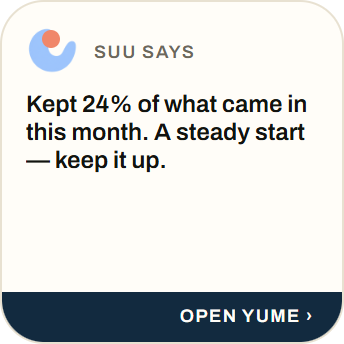
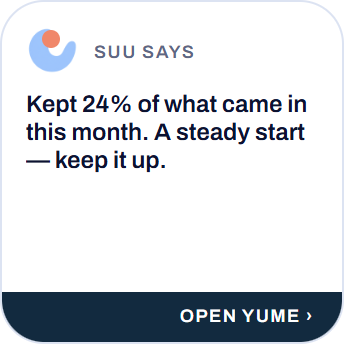
Restyle the widgets in the app's palette with a larger This Month figure, skip widget refresh in Expo Go, and show Add amount chips only without Your usual

diff --git a/src/widgets/ThisMonthWidget.tsx b/src/widgets/ThisMonthWidget.tsx
@@ -1,7 +1,7 @@
 import { FlexWidget, TextWidget, type ColorProp } from 'react-native-android-widget';
 import { formatMoney } from '@/lib/money';
 import { WidgetShell, WidgetLabel } from './WidgetShell';
-import { widgetColor, widgetTint, WIDGET_FONT } from './widgetTheme';
+import { widgetColor, widgetTint, widgetAlpha, WIDGET_FONT } from './widgetTheme';
 import type { ThisMonthWidgetData } from './data';
 
 /** Home's free-balance headline and proportional month line, sized for a 4×2 widget. */
@@ -38,7 +38,8 @@ export function ThisMonthWidget({
     <WidgetShell
       clickAction="OPEN_APP"
       justifyContent="space-between"
-      backgroundColor={widgetTint(primary, 98)}
+      // A solid sky wash: a native gradient would replace the drawable that holds the border.
+      backgroundColor={widgetTint(primary, 90)}
     >
       <FlexWidget
         style={{
@@ -60,7 +61,7 @@ export function ThisMonthWidget({
         style={{
           width: 'match_parent',
           fontFamily: WIDGET_FONT.body,
-          fontSize: 30,
+          fontSize: 36,
           adjustsFontSizeToFit: true,
           color: over || freeMinor < 0 ? widgetColor.expenseText : widgetColor.ink,
         }}
@@ -69,10 +70,10 @@ export function ThisMonthWidget({
         style={{
           flexDirection: 'row',
           width: 'match_parent',
-          height: 7,
+          height: 8,
           borderRadius: 4,
           overflow: 'hidden',
-          backgroundColor: widgetColor.surfaceAlt,
+          backgroundColor: widgetAlpha(widgetColor.white, 0.55),
         }}
       >
         {parts.map((p) => (
@@ -81,7 +82,7 @@ export function ThisMonthWidget({
             style={{
               width: 0,
               flex: Math.max(1, Math.round(p.share * 10000)),
-              height: 7,
+              height: 8,
               backgroundColor: p.color,
             }}
           />
@@ -108,7 +109,7 @@ export function ThisMonthWidget({
         }
         maxLines={1}
         truncate="END"
-        style={{ fontFamily: WIDGET_FONT.body, fontSize: 10, color: widgetColor.textMuted, marginTop: 6 }}
+        style={{ fontFamily: WIDGET_FONT.body, fontSize: 11, color: widgetColor.inkSoft, marginTop: 6 }}
       />
     </WidgetShell>
   );
@@ -132,7 +133,7 @@ function Figure({ label, value, color }: { label: string; value: string; color: 
         style={{
           width: 'match_parent',
           fontFamily: WIDGET_FONT.amount,
-          fontSize: 12,
+          fontSize: 13,
           adjustsFontSizeToFit: true,
           color: widgetColor.ink,
           marginTop: 2,

diff --git a/src/widgets/NextDueWidget.tsx b/src/widgets/NextDueWidget.tsx
@@ -33,10 +33,10 @@ export function NextDueWidget({ data }: { data: NextDueWidgetData | null }) {
     >
       <FlexWidget
         style={{
-          width: 42,
-          height: 42,
-          borderRadius: 12,
-          backgroundColor: widgetAlpha(tint, 0.28),
+          width: 44,
+          height: 44,
+          borderRadius: 14,
+          backgroundColor: widgetAlpha(tint, 0.3),
           flexDirection: 'column',
           alignItems: 'center',
           justifyContent: 'center',
@@ -62,7 +62,7 @@ export function NextDueWidget({ data }: { data: NextDueWidgetData | null }) {
           text={title}
           truncate="END"
           maxLines={1}
-          style={{ fontFamily: WIDGET_FONT.bodyMedium, fontSize: 14, color: widgetColor.ink }}
+          style={{ fontFamily: WIDGET_FONT.bodyMedium, fontSize: 15, color: widgetColor.ink }}
         />
         <TextWidget
           text={subtitle}
@@ -78,7 +78,7 @@ export function NextDueWidget({ data }: { data: NextDueWidgetData | null }) {
           width: 80,
           textAlign: 'right',
           fontFamily: WIDGET_FONT.amount,
-          fontSize: 15,
+          fontSize: 16,
           adjustsFontSizeToFit: true,
           color: sign === '+' ? widgetColor.incomeText : widgetColor.ink,
         }}

diff --git a/src/widgets/notifyWidgets.test.ts b/src/widgets/notifyWidgets.test.ts
@@ -1,0 +1,27 @@
+const mockRequest = jest.fn(() => Promise.resolve());
+jest.mock('react-native-android-widget', () => ({
+  requestWidgetUpdate: (...a: unknown[]) => mockRequest(...(a as [])),
+}));
+jest.mock('./registry', () => ({ WIDGET_NAMES: ['A', 'B'], renderWidgetByName: jest.fn() }));
+jest.mock('expo-constants', () => ({
+  __esModule: true,
+  default: { executionEnvironment: 'bare' },
+  ExecutionEnvironment: { StoreClient: 'storeClient', Bare: 'bare' },
+}));
+import Constants from 'expo-constants';
+import { refreshAllWidgets } from './notifyWidgets';
+
+const env = Constants as unknown as { executionEnvironment: string };
+
+describe('refreshAllWidgets', () => {
+  it('asks every widget to refresh in a real build', () => {
+    env.executionEnvironment = 'bare';
+    refreshAllWidgets();
+    expect(mockRequest).toHaveBeenCalledTimes(2);
+  });
+  it('does nothing in Expo Go, where there is no widget module to warn about', () => {
+    env.executionEnvironment = 'storeClient';
+    refreshAllWidgets();
+    expect(mockRequest).not.toHaveBeenCalled();
+  });
+});

diff --git a/src/widgets/widgetTheme.ts b/src/widgets/widgetTheme.ts
@@ -5,18 +5,19 @@ import { hexToRgba, shade } from '@/lib/color';
  * depending on what RemoteViews can't render (font objects, StyleSheet.create()). Hex values synced by hand.
  */
 export const widgetColor = {
-  ink: '#12130F',
-  inkSoft: '#5B5748',
-  textMuted: '#6C685B',
-  cream: '#FFFDF8',
-  surfaceAlt: '#F3ECE0',
+  // The app's cool paper-and-navy palette (palette.ts), not the older warm cream.
+  ink: '#0C1230',
+  inkSoft: '#46506F',
+  textMuted: '#5E6784',
+  cream: '#FFFFFF',
+  surfaceAlt: '#E9EEFA',
   white: '#FFFFFF',
-  borderSoft: '#E8E1D1',
-  income: '#1C9A5B',
-  incomeText: '#167747',
-  expense: '#E23F55',
-  expenseText: '#BD3547',
-  tray: '#F8F3EA',
+  borderSoft: '#DCE3F2',
+  income: '#1B7A4F',
+  incomeText: '#1B7A4F',
+  expense: '#B3261E',
+  expenseText: '#B3261E',
+  tray: '#F1F4FB',
   slice: { spent: '#F6A88E', saved: '#4FD09F', due: '#EDB02F', free: '#7DB9F2' },
   // Account hues, the same as Home's account cards (see accountHue in lib/account).
   flatLime: '#E0F0A8',

diff --git a/src/features/add/components/AddEntryAmount.tsx b/src/features/add/components/AddEntryAmount.tsx
@@ -21,6 +21,7 @@ export const AMOUNT_KEYS = [
   'invalidAmount',
   'roundingNote',
   'frequentAmounts',
+  'usual',
   'amountMinor',
   'setExpr',
 ] as const satisfies readonly (keyof AddEntryModel)[];
@@ -43,6 +44,7 @@ export function AddEntryAmount({ model }: Props): ReactElement {
     invalidAmount,
     roundingNote,
     frequentAmounts,
+    usual,
     amountMinor,
     setExpr,
   } = model;
@@ -79,7 +81,11 @@ export function AddEntryAmount({ model }: Props): ReactElement {
           setError(null);
         },
       }}
-      suggestions={{ amounts: frequentAmounts, onPick: (minor) => setExpr(exprFromMinor(minor)) }}
+      // "Your usual" below already offers amounts (with the category and account), so the plain amounts show only without it.
+      suggestions={{
+        amounts: usual.length > 0 && !isLinked ? [] : frequentAmounts,
+        onPick: (minor) => setExpr(exprFromMinor(minor)),
+      }}
     />
   );
 }

diff --git a/src/widgets/notifyWidgets.ts b/src/widgets/notifyWidgets.ts
@@ -1,3 +1,4 @@
+import Constants, { ExecutionEnvironment } from 'expo-constants';
 import { requestWidgetUpdate } from 'react-native-android-widget';
 import { WIDGET_NAMES, renderWidgetByName } from './registry';
 
@@ -6,6 +7,8 @@ import { WIDGET_NAMES, renderWidgetByName } from './registry';
  * once from `app/_layout.tsx` on backgrounding, not per mutation: edits happen while the app is open.
  */
 export function refreshAllWidgets(): void {
+  // Expo Go has no widget module (widgets need a real build), so there is nothing to refresh and each call would only warn.
+  if (Constants.executionEnvironment === ExecutionEnvironment.StoreClient) return;
   for (const name of WIDGET_NAMES) {
     requestWidgetUpdate({
       widgetName: name,

diff --git a/src/widgets/widgets.test.ts b/src/widgets/widgets.test.ts
@@ -154,7 +154,7 @@ describe('the five widgets', () => {
       } else visit(fn(el.props));
     }
     visit(widget);
-    const segments = primitives.filter((el) => el.props.style?.height === 7 && el.props.style?.width === 0);
+    const segments = primitives.filter((el) => el.props.style?.height === 8 && el.props.style?.width === 0);
     expect(segments).toHaveLength(4);
     const nativeWeights = segments.map((el) => FlexWidget.convertProps(el.props).weight!);
     expect(nativeWeights.every((weight) => Number.isInteger(weight) && weight > 0)).toBe(true);

diff --git a/docs/ARCHITECTURE.md b/docs/ARCHITECTURE.md
@@ -465,7 +465,7 @@ SpendBars retains only Home's current proportional chart: daily for the running 
 
 ## Android widget presentation
 
-The five widgets in [src/widgets](../src/widgets) use synchronous Android widget primitives in headless JS. Their cream surface, warm border, Fredoka headings and Archivo text/amounts follow the current app. This Month leads with the available balance (or shortfall), followed by Home's semantic spent/saved/bills/free line and compact figures. The outstanding-bills figure uses the actual query amount, not the capped line share. The line sends scaled positive integer weights because the Android renderer reads weights with getInt. The month card uses a pale solid theme wash so the native gradient implementation cannot replace its border. Hidden savings omit both the figure and its segment. Accounts uses three centred icon/name/type/balance columns, retaining per-account currency and savings masking. Quick Add uses the active theme's deep ink for its expense action and neutral Income/Move pills. Suu uses Archivo copy with a deep theme footer; Next Due retains the date tile and uses a sans-serif amount with more room for the payment name and due timing. The short Next Due privacy placeholder uses two lines so it fits its one-row height. Widget privacy gating, refresh and deep links remain owned by the existing registry/data/task modules.
+The five widgets in [src/widgets](../src/widgets) use synchronous Android widget primitives in headless JS. Their white surface, cool navy-tinted border and ink (the app's palette), Fredoka headings and Archivo text/amounts follow the current app. This Month leads with the available balance (or shortfall), followed by Home's semantic spent/saved/bills/free line and compact figures. The outstanding-bills figure uses the actual query amount, not the capped line share. The line sends scaled positive integer weights because the Android renderer reads weights with getInt. The month card uses a solid theme-sky wash (a little stronger than before, with a larger figure) so the native gradient implementation cannot replace its border. Hidden savings omit both the figure and its segment. Accounts uses three centred icon/name/type/balance columns, retaining per-account currency and savings masking. Quick Add uses the active theme's deep ink for its expense action and neutral Income/Move pills. Suu uses Archivo copy with a deep theme footer; Next Due retains the date tile and uses a sans-serif amount with more room for the payment name and due timing. The short Next Due privacy placeholder uses two lines so it fits its one-row height. Widget privacy gating, refresh and deep links remain owned by the existing registry/data/task modules.
 
 Quick Add retains all seven expense/category/income/transfer actions in a larger minimum 208×184dp widget. Its grid-cell hints are omitted because Android 12 uses them instead of the dp minima; the launcher calculates the cells needed for these bounds. Main/secondary actions are 44dp high and category containers 48dp, leaving at least 45.5dp per category after shell padding/border. Shared headless layout tokens drive its renderer and preview dimensions; a regression checks all seven encoded deep links and target sizes against native metadata. See [F05 validation](F05_QUICK_ADD_TARGETS_2026_10_23.md).
 
